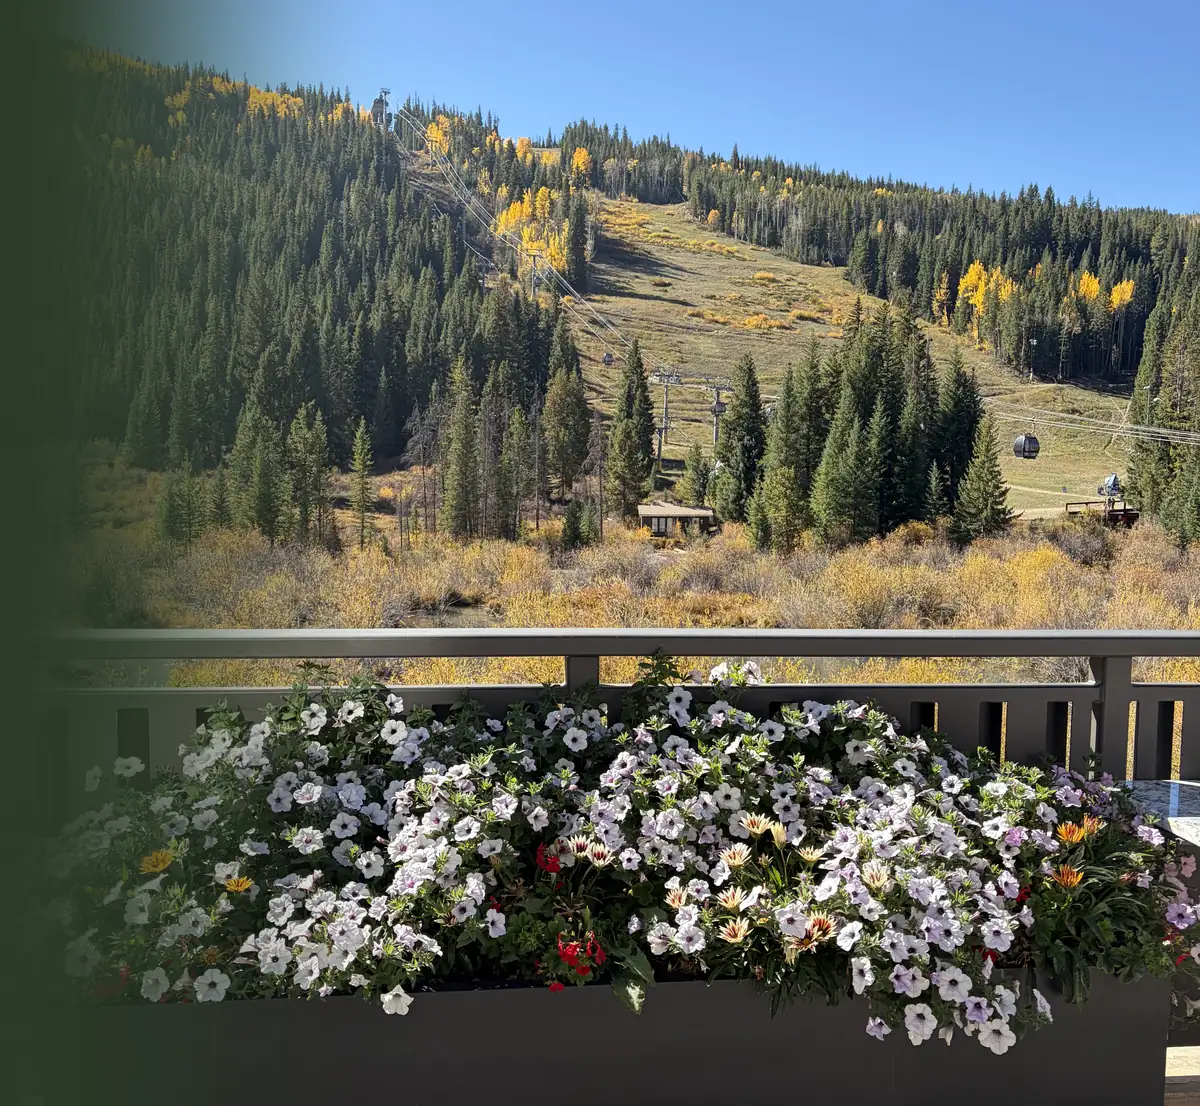
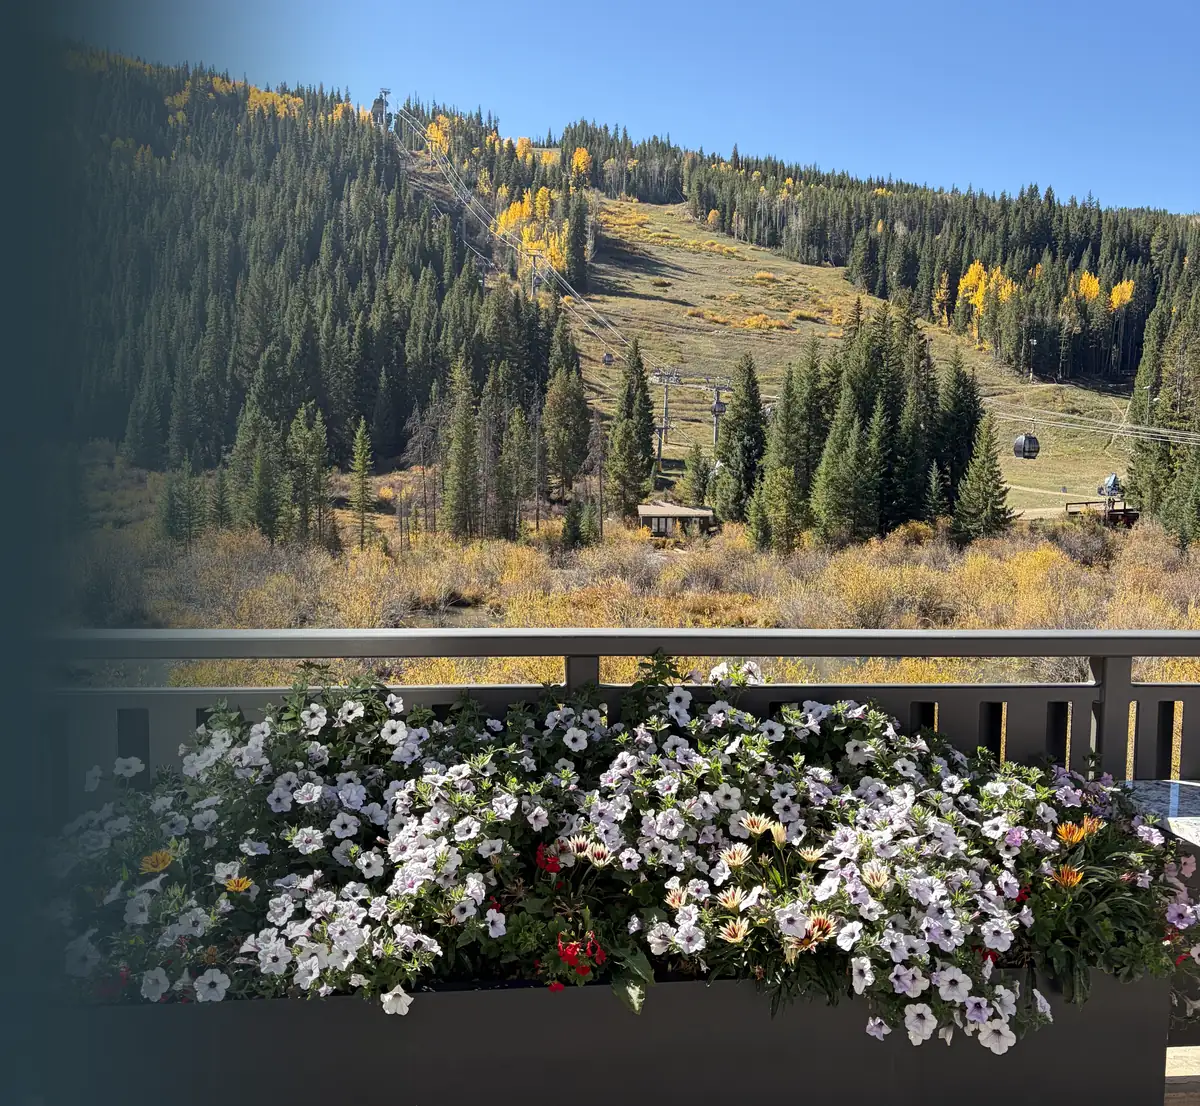
Apply new brand palette: Spruce Green, Aspen Leaf, Limestone, Lake Blue, Deep Slate
Claude-Session: https://claude.ai/code/session_01Y8VrC9MmaFrDPksZBxYwHn

Changed region(s): [[0.0, 0.0, 0.1233, 1.0]]

diff --git a/public/styles.css b/public/styles.css
@@ -3,23 +3,26 @@
    Brand colors are pulled from the company logo.
    ========================================================== */
 :root {
-  --forest: #385234;      /* main logo green */
-  --forest-deep: #2c3b28; /* darkest logo green */
-  --moss: #637447;        /* lighter green from the A & Z letters */
-  --moss-light: #8fa36a;
-  --stone: #8b8875;       /* mountain rock */
-  --mist: #a8a38f;
-  --snow: #f6f5f0;
+  /* Brand palette (from the marketing studio)
+     Spruce Green #294c3b · Aspen Leaf #77927a · Limestone #f4f2e9 · Lake Blue #2f6b88 · Deep Slate #283a43 */
+  --forest: #294c3b;      /* Spruce Green: buttons, brand color, green sections */
+  --forest-deep: #283a43; /* Deep Slate: headings and dark sections */
+  --moss: #2f6b88;        /* Lake Blue: small accent text, links, highlights */
+  --moss-light: #b3c8b5;  /* light Aspen Leaf tint: accent text on dark backgrounds */
+  --aspen: #77927a;       /* Aspen Leaf: decorative accents only (too light for small text) */
+  --stone: #77927a;
+  --mist: #b3c8b5;
+  --snow: #f4f2e9;        /* Limestone: light section backgrounds */
   --paper: #ffffff;
-  --ink: #1f2a1c;
-  --muted: #5b6455;
-  --line: #e3e2d9;
+  --ink: #283a43;         /* Deep Slate body text */
+  --muted: #556570;
+  --line: #e2e0d5;
 
   --display: "Marcellus", Georgia, serif;
   --body: "Montserrat", system-ui, -apple-system, "Segoe UI", sans-serif;
 
   --radius: 14px;
-  --shadow: 0 1px 2px rgba(31, 42, 28, .06), 0 8px 24px rgba(31, 42, 28, .08);
+  --shadow: 0 1px 2px rgba(40, 58, 67, .06), 0 8px 24px rgba(40, 58, 67, .10);
   --wrap: 1160px;
 }
 
@@ -118,7 +121,7 @@ p { margin: 0 0 1em; }
 @media (min-width: 641px) and (max-width: 1240px) {
   .hero {
     background:
-      linear-gradient(90deg, rgba(44,59,40,.95) 0%, rgba(44,59,40,.88) 45%, rgba(44,59,40,.4) 75%, rgba(44,59,40,0) 100%),
+      linear-gradient(90deg, rgba(40,58,67,.95) 0%, rgba(40,58,67,.88) 45%, rgba(40,58,67,.4) 75%, rgba(40,58,67,0) 100%),
       url("assets/hero-home.webp") right center / auto 100% no-repeat,
       var(--forest-deep);
   }
@@ -175,15 +178,15 @@ p { margin: 0 0 1em; }
 .beyond .beyond-title { font-size: 1.6rem; }
 .beyond-copy p:last-child { color: var(--muted); margin: 0; }
 .beyond-list { list-style: none; padding: 0; margin: 0; display: grid; grid-template-columns: 1fr 1fr; gap: 14px; }
-.beyond-list li { background: #fff; border-radius: 12px; padding: 18px 20px; display: flex; flex-direction: column; border-left: 4px solid var(--moss); }
+.beyond-list li { background: #fff; border-radius: 12px; padding: 18px 20px; display: flex; flex-direction: column; border-left: 4px solid var(--aspen); }
 .beyond-list strong { color: var(--forest-deep); }
 .beyond-list span { color: var(--muted); font-size: .88rem; }
 
 /* Wildfire */
-.wildfire { background: var(--forest-deep); color: rgba(255,255,255,.86); position: relative; overflow: hidden; }
+.wildfire { background: var(--forest); color: rgba(255,255,255,.86); position: relative; overflow: hidden; }
 .wildfire::before {
   content: ""; position: absolute; inset: auto -10% -40% auto; width: 620px; height: 620px;
-  background: radial-gradient(circle, rgba(99,116,71,.5), transparent 65%); pointer-events: none;
+  background: radial-gradient(circle, rgba(119,146,122,.45), transparent 65%); pointer-events: none;
 }
 .wildfire-inner { display: grid; grid-template-columns: 1fr 1fr; gap: 56px; align-items: start; position: relative; }
 .wildfire h2, .wildfire h3 { color: #fff; }
@@ -218,7 +221,7 @@ p { margin: 0 0 1em; }
 .tile-title { font-family: var(--display); font-size: 1.5rem; color: var(--forest-deep); line-height: 1.15; }
 .tile-sub { color: var(--muted); font-size: .93rem; flex: 1; }
 .tile-go { font-weight: 700; font-size: .9rem; color: var(--forest); }
-.tile-photo { background: linear-gradient(180deg, rgba(31,42,28,.72), rgba(31,42,28,.88)), var(--img) center / cover; border: 0; }
+.tile-photo { background: linear-gradient(180deg, rgba(40,58,67,.72), rgba(40,58,67,.88)), var(--img) center / cover; border: 0; }
 .tile-photo .tile-title, .tile-photo .tile-go { color: #fff; }
 .tile-photo .tile-sub { color: rgba(255,255,255,.85); }
 .tile-cta { background: var(--forest); border-color: var(--forest); }
@@ -268,8 +271,8 @@ main > [data-view]:not([data-view="home"]):not(#services) { min-height: calc(100
   position: absolute; top: 12px; z-index: 3; font-size: .7rem; font-weight: 800; letter-spacing: .14em; text-transform: uppercase;
   padding: 6px 10px; border-radius: 6px; color: #fff; pointer-events: none;
 }
-.ba-tag-before { left: 12px; background: rgba(139,136,117,.92); }
-.ba-tag-after { right: 12px; background: rgba(56,82,52,.92); }
+.ba-tag-before { left: 12px; background: rgba(40,58,67,.88); }
+.ba-tag-after { right: 12px; background: rgba(41,76,59,.94); }
 
 /* Slider: before photo is revealed on the left of the handle */
 .ba-slider .ba-before { clip-path: inset(0 calc(100% - var(--pos)) 0 0); }
@@ -321,7 +324,7 @@ main > [data-view]:not([data-view="home"]):not(#services) { min-height: calc(100
 .apparel-inner { display: grid; grid-template-columns: 1.1fr .9fr; gap: 40px; align-items: start; }
 .product { background: var(--snow); border-radius: 20px; overflow: hidden; }
 .product-photos { display: grid; grid-template-columns: 1fr 1fr; gap: 10px; padding: 10px; }
-.product-photos figure { position: relative; margin: 0; border-radius: 14px; overflow: hidden; background: #e9e7df; }
+.product-photos figure { position: relative; margin: 0; border-radius: 14px; overflow: hidden; background: #ebe8dc; }
 .product-photos img { width: 100%; aspect-ratio: 720 / 1070; object-fit: cover; display: block; }
 .product-photos figcaption { position: absolute; left: 10px; bottom: 10px; background: rgba(255,255,255,.94); color: var(--forest-deep); font-weight: 700; font-size: .78rem; padding: 5px 10px; border-radius: 999px; }
 .product-info { padding: 24px 28px 28px; }
@@ -346,7 +349,7 @@ main > [data-view]:not([data-view="home"]):not(#services) { min-height: calc(100
   border: 1.5px solid var(--line); border-radius: 10px; padding: 12px 14px; background: #fff; width: 100%;
   transition: border-color .15s, box-shadow .15s;
 }
-.quote-form input:focus, .quote-form select:focus, .quote-form textarea:focus { outline: none; border-color: var(--moss); box-shadow: 0 0 0 3px rgba(99,116,71,.18); }
+.quote-form input:focus, .quote-form select:focus, .quote-form textarea:focus { outline: none; border-color: var(--moss); box-shadow: 0 0 0 3px rgba(47,107,136,.2); }
 .quote-form textarea { resize: vertical; }
 .quote-form fieldset { border: 0; padding: 0; margin: 0; }
 .quote-form legend { font-weight: 600; font-size: .88rem; color: var(--forest-deep); margin-bottom: 10px; }
@@ -358,7 +361,7 @@ main > [data-view]:not([data-view="home"]):not(#services) { min-height: calc(100
 .form-note { margin: 0; text-align: center; }
 
 /* Footer */
-.site-footer { background: #1f2a1c; border-top: 4px solid var(--moss); color: rgba(255,255,255,.75); padding: 64px 0 28px; font-size: .93rem; }
+.site-footer { background: #1f2d34; border-top: 4px solid var(--aspen); color: rgba(255,255,255,.75); padding: 64px 0 28px; font-size: .93rem; }
 .site-footer a { color: #fff; text-decoration: none; }
 .site-footer a:hover { text-decoration: underline; }
 .site-footer p a, .footer-bottom a { display: inline-block; padding: 8px 0; }
@@ -414,7 +417,7 @@ main > [data-view]:not([data-view="home"]):not(#services) { min-height: calc(100
   .hero {
     padding: 64px 0 170px;
     background:
-      linear-gradient(180deg, rgba(31,42,28,.82) 0%, rgba(31,42,28,.66) 55%, rgba(31,42,28,.4) 100%),
+      linear-gradient(180deg, rgba(40,58,67,.82) 0%, rgba(40,58,67,.66) 55%, rgba(40,58,67,.4) 100%),
       url("assets/hero-home-sm.webp") center 60% / cover no-repeat,
       var(--forest-deep);
   }

diff --git a/public/index.html b/public/index.html
@@ -5,7 +5,7 @@
   <meta name="viewport" content="width=device-width, initial-scale=1">
   <title>A-Z Landscaping | Summit County, CO Landscaping, Tree Work &amp; Wildfire Mitigation</title>
   <meta name="description" content="A-Z Landscaping is a locally owned landscaping company serving Dillon, Breckenridge, Frisco, Silverthorne and Keystone. Lawn care, cleanups, tree work, xeriscaping, flagstone patios, wildfire mitigation and more. Call (970) 333-4469.">
-  <meta name="theme-color" content="#2c3b28">
+  <meta name="theme-color" content="#283a43">
   <link rel="icon" type="image/png" href="assets/favicon.png">
   <link rel="apple-touch-icon" href="assets/apple-touch-icon.png">
 
@@ -17,7 +17,7 @@
   <link rel="preconnect" href="https://fonts.googleapis.com">
   <link rel="preconnect" href="https://fonts.gstatic.com" crossorigin>
   <link href="https://fonts.googleapis.com/css2?family=Marcellus&family=Montserrat:wght@400;500;600;700;800&display=swap" rel="stylesheet">
-  <link rel="stylesheet" href="styles.css?v=20261114o">
+  <link rel="stylesheet" href="styles.css?v=20261118a">
 
   <script type="application/ld+json">
   {
@@ -521,6 +521,6 @@
     <a class="mobile-call" href="tel:+19703334469">Call or Text (970) 333-4469</a>
   </aside>
 
-  <script src="main.js?v=20261114o"></script>
+  <script src="main.js?v=20261118a"></script>
 </body>
 </html>

diff --git a/public/thanks.html b/public/thanks.html
@@ -9,7 +9,7 @@
   <link rel="preconnect" href="https://fonts.googleapis.com">
   <link rel="preconnect" href="https://fonts.gstatic.com" crossorigin>
   <link href="https://fonts.googleapis.com/css2?family=Marcellus&family=Montserrat:wght@400;500;600;700;800&display=swap" rel="stylesheet">
-  <link rel="stylesheet" href="styles.css?v=20261114o">
+  <link rel="stylesheet" href="styles.css?v=20261118a">
   <style>
     .thanks { min-height: 100vh; display: grid; place-items: center; text-align: center; padding: 40px 16px; background: var(--snow); }
     .thanks-box { max-width: 520px; background: #fff; border-radius: 20px; padding: 48px 32px; box-shadow: var(--shadow); }
